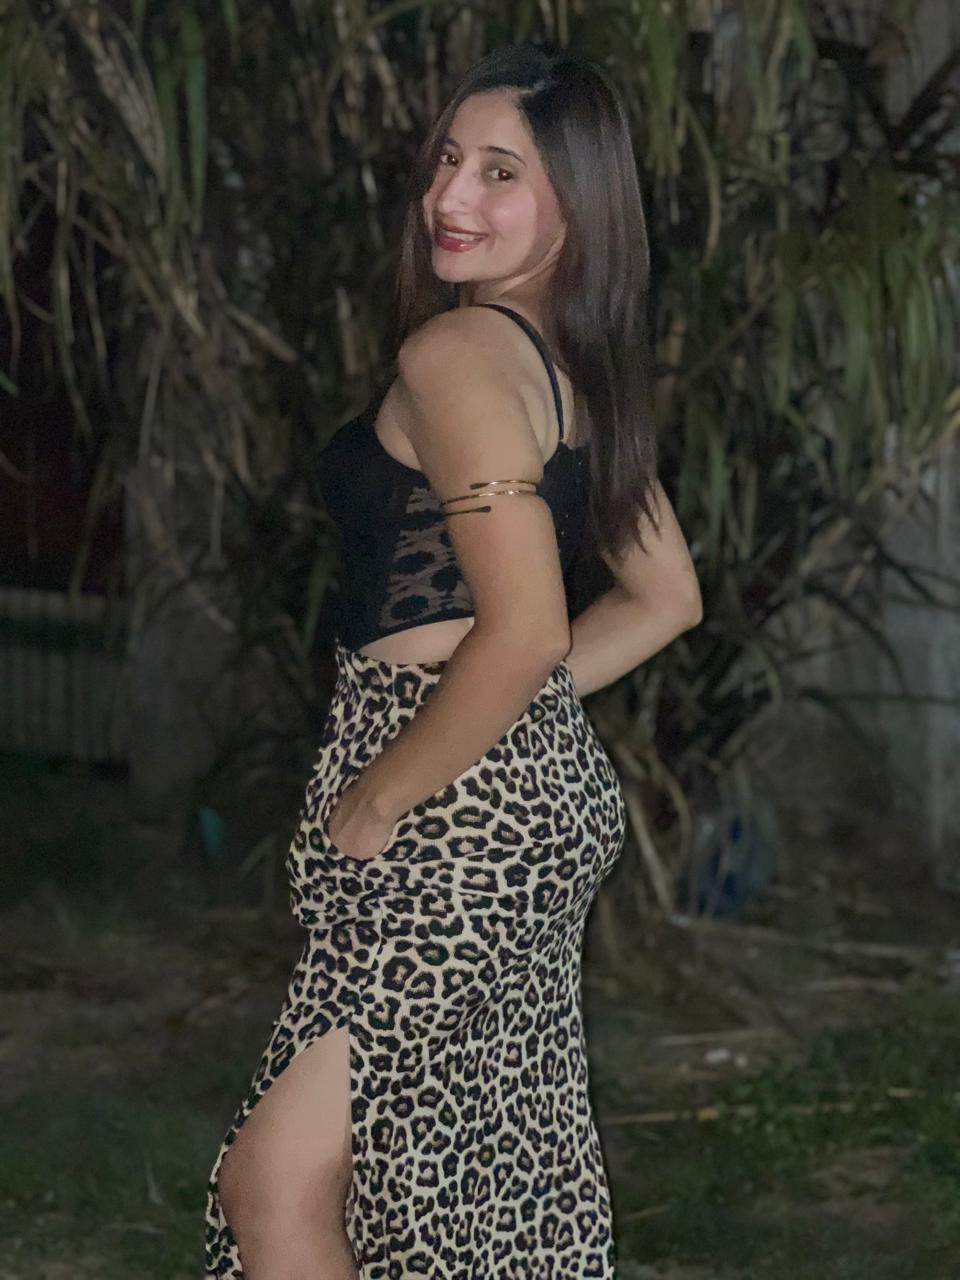
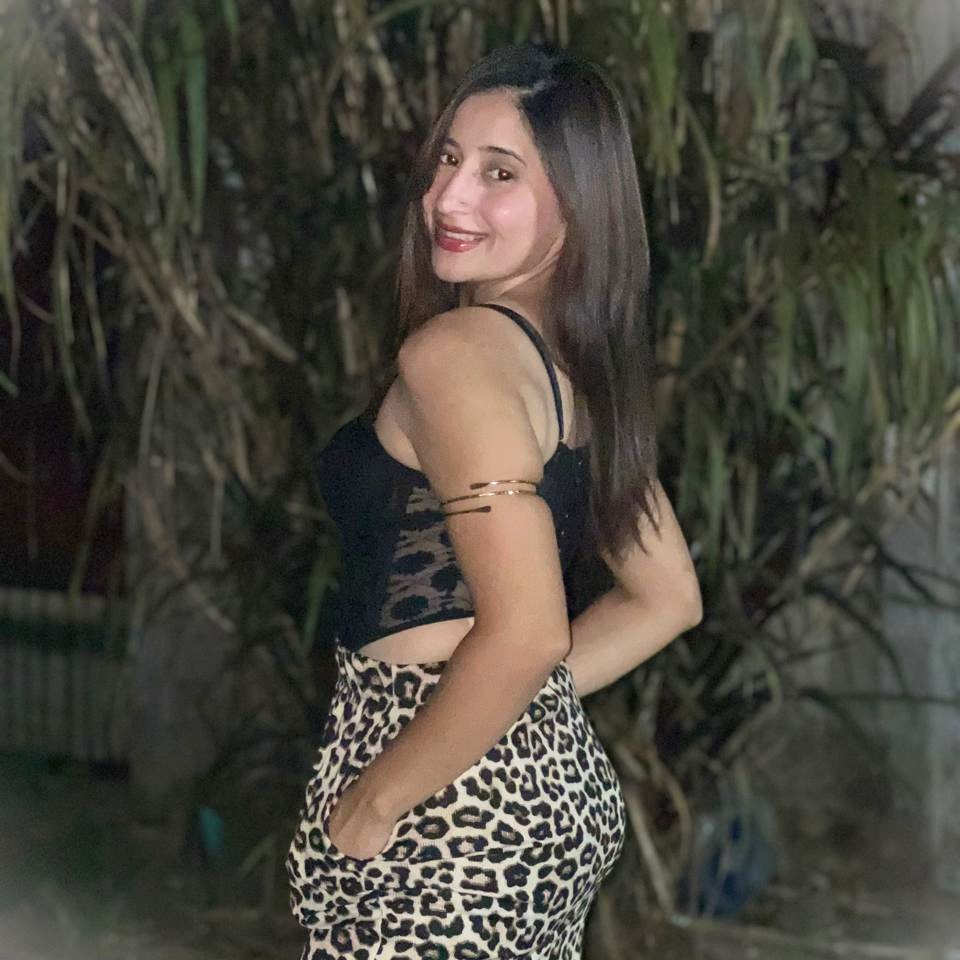
fix padrinos

diff --git a/src/components/Details.tsx b/src/components/Details.tsx
@@ -6,25 +6,25 @@ import { useInView } from '@/hooks/useInView';
 export default function Details() {
   const { ref, inView } = useInView<HTMLDivElement>();
   const [activePanel, setActivePanel] = useState<'location' | 'dressCode' | null>(null);
-  const [godparentsIndex, setGodparentsIndex] = useState(0);
-  const [witnessesIndex, setWitnessesIndex] = useState(0);
+  const [madrinasIndex, setMadrinasIndex] = useState(0);
+  const [padrinosIndex, setPadrinosIndex] = useState(0);
   const [songName, setSongName] = useState('');
   const [submittedSong, setSubmittedSong] = useState('');
 
-  const nextGodparent = () => {
-    setGodparentsIndex((current) => (current + 1) % weddingConfig.godparents.length);
+  const nextMadrina = () => {
+    setMadrinasIndex((current) => (current + 1) % weddingConfig.madrinas.length);
   };
 
-  const prevGodparent = () => {
-    setGodparentsIndex((current) => (current - 1 + weddingConfig.godparents.length) % weddingConfig.godparents.length);
+  const prevMadrina = () => {
+    setMadrinasIndex((current) => (current - 1 + weddingConfig.madrinas.length) % weddingConfig.madrinas.length);
   };
 
-  const nextWitness = () => {
-    setWitnessesIndex((current) => (current + 1) % weddingConfig.witnesses.length);
+  const nextPadrino = () => {
+    setPadrinosIndex((current) => (current + 1) % weddingConfig.padrinos.length);
   };
 
-  const prevWitness = () => {
-    setWitnessesIndex((current) => (current - 1 + weddingConfig.witnesses.length) % weddingConfig.witnesses.length);
+  const prevPadrino = () => {
+    setPadrinosIndex((current) => (current - 1 + weddingConfig.padrinos.length) % weddingConfig.padrinos.length);
   };
 
   const handleSongSubmit = (event: React.FormEvent<HTMLFormElement>) => {
@@ -211,26 +211,26 @@ export default function Details() {
               <div className="mb-6 flex items-center justify-center gap-3 text-center">
                 <Users className="h-5 w-5 text-[#b08968]" />
                 <h3 className="font-[\'Cormorant_Garamond\'] text-2xl text-[#3a3022]">
-                  Padrinos y Madrinas
+                  Madrinas
                 </h3>
               </div>
 
               <div className="flex items-center justify-center gap-3">
                 <button
                   type="button"
-                  aria-label="Anterior padrino o madrina"
-                  onClick={prevGodparent}
+                  aria-label="Anterior madrina"
+                  onClick={prevMadrina}
                   className="flex h-10 w-10 items-center justify-center rounded-full border border-[#d4b483] bg-white text-[#3a3022] shadow-sm transition hover:bg-[#f5ede0]"
                 >
                   <ChevronLeft className="h-5 w-5" />
                 </button>
 
                 <div className="relative flex h-[220px] w-[220px] items-center justify-center overflow-hidden">
-                  {weddingConfig.godparents.map((person, index) => {
-                    const isActive = index === godparentsIndex;
+                  {weddingConfig.madrinas.map((person, index) => {
+                    const isActive = index === madrinasIndex;
                     return (
                       <div
-                        key={`${person.role}-${person.name}`}
+                        key={person.name}
                         className={`absolute inset-0 flex flex-col items-center justify-center rounded-[2rem] border border-[#e6d5b8] bg-white/80 p-4 shadow-[0_24px_50px_rgba(58,48,34,0.08)] backdrop-blur-sm transition-all duration-700 ease-[cubic-bezier(0.22,1,0.36,1)] ${
                           isActive
                             ? 'translate-x-0 scale-100 opacity-100 blur-0'
@@ -244,7 +244,7 @@ export default function Details() {
                             className="h-full w-full object-cover"
                           />
                         </div>
-                        <p className="text-[10px] uppercase tracking-[0.25em] text-[#b08968]">{person.role}</p>
+                        <p className="text-[10px] uppercase tracking-[0.25em] text-[#b08968]">Madrina</p>
                         <p className="mt-2 text-center font-[\'Cormorant_Garamond\'] text-xl text-[#3a3022]">
                           {person.name}
                         </p>
@@ -255,8 +255,8 @@ export default function Details() {
 
                 <button
                   type="button"
-                  aria-label="Siguiente padrino o madrina"
-                  onClick={nextGodparent}
+                  aria-label="Siguiente madrina"
+                  onClick={nextMadrina}
                   className="flex h-10 w-10 items-center justify-center rounded-full border border-[#d4b483] bg-white text-[#3a3022] shadow-sm transition hover:bg-[#f5ede0]"
                 >
                   <ChevronRight className="h-5 w-5" />
@@ -268,26 +268,26 @@ export default function Details() {
               <div className="mb-6 flex items-center justify-center gap-3 text-center">
                 <Users className="h-5 w-5 text-[#b08968]" />
                 <h3 className="font-[\'Cormorant_Garamond\'] text-2xl text-[#3a3022]">
-                  Testigos
+                  Padrinos
                 </h3>
               </div>
 
               <div className="flex items-center justify-center gap-3">
                 <button
                   type="button"
-                  aria-label="Anterior testigo"
-                  onClick={prevWitness}
+                  aria-label="Anterior padrino"
+                  onClick={prevPadrino}
                   className="flex h-10 w-10 items-center justify-center rounded-full border border-[#d4b483] bg-white text-[#3a3022] shadow-sm transition hover:bg-[#f5ede0]"
                 >
                   <ChevronLeft className="h-5 w-5" />
                 </button>
 
                 <div className="relative flex h-[220px] w-[220px] items-center justify-center overflow-hidden">
-                  {weddingConfig.witnesses.map((person, index) => {
-                    const isActive = index === witnessesIndex;
+                  {weddingConfig.padrinos.map((person, index) => {
+                    const isActive = index === padrinosIndex;
                     return (
                       <div
-                        key={`${person.role}-${person.name}`}
+                        key={person.name}
                         className={`absolute inset-0 flex flex-col items-center justify-center rounded-[2rem] border border-[#e6d5b8] bg-white/80 p-4 shadow-[0_24px_50px_rgba(58,48,34,0.08)] backdrop-blur-sm transition-all duration-700 ease-[cubic-bezier(0.22,1,0.36,1)] ${
                           isActive
                             ? 'translate-x-0 scale-100 opacity-100 blur-0'
@@ -301,7 +301,7 @@ export default function Details() {
                             className="h-full w-full object-cover"
                           />
                         </div>
-                        <p className="text-[10px] uppercase tracking-[0.25em] text-[#b08968]">{person.role}</p>
+                        <p className="text-[10px] uppercase tracking-[0.25em] text-[#b08968]">Padrino</p>
                         <p className="mt-2 text-center font-[\'Cormorant_Garamond\'] text-xl text-[#3a3022]">
                           {person.name}
                         </p>
@@ -312,8 +312,8 @@ export default function Details() {
 
                 <button
                   type="button"
-                  aria-label="Siguiente testigo"
-                  onClick={nextWitness}
+                  aria-label="Siguiente padrino"
+                  onClick={nextPadrino}
                   className="flex h-10 w-10 items-center justify-center rounded-full border border-[#d4b483] bg-white text-[#3a3022] shadow-sm transition hover:bg-[#f5ede0]"
                 >
                   <ChevronRight className="h-5 w-5" />

diff --git a/src/lib/config.ts b/src/lib/config.ts
@@ -18,33 +18,45 @@ export const weddingConfig = {
       image: '/WhatsApp Image 2026-10-05 at 19.23.19.jpeg',
     },
   ],
-  godparents: [
+  madrinas: [
     {
-      role: 'Madrina',
       name: 'Hermana de la novia',
       image: '/WhatsApp Image 2026-10-05 at 19.24.55.jpeg',
     },
     {
-      role: 'Padrino',
-      name: 'Cosme fulanito',
-      image: '/WhatsApp Image 2026-10-05 at 19.23.19.jpeg',
-    },
-    {
-      role: 'Madrina',
       name: 'Cuñada de la novia',
       image: '/WhatsApp Image 2026-10-05 at 19.59.11.jpeg',
     },
-  ],
-  witnesses: [
     {
-      role: 'Testigo',
-      name: 'Nombre y apellido',
-      image: '/WhatsApp Image 2026-10-05 at 19.24.55.jpeg',
+      name: 'Amiga de la novia',
+      image: '/WhatsApp Image 2026-10-07 at 11.31.50.jpeg',
     },
     {
-      role: 'Testigo',
-      name: 'Nombre y apellido',
-      image: '/WhatsApp Image 2026-10-05 at 19.23.19.jpeg',
+      name: 'Amiga de la novia',
+      image: '/WhatsApp Image 2026-10-07 at 13.31.34.jpeg',
+    },
+    
+  ],
+  padrinos: [
+    {
+      name: 'Amigo del novio',
+      image: '/WhatsApp Image 2026-10-07 at 11.33.51 (3).jpeg',
+    },
+    {
+      name: 'Amigo del novio',
+      image: '/WhatsApp Image 2026-10-07 at 13.31.25.jpeg',
+    },
+    {
+      name: 'Amigo del novio',
+      image: '/WhatsApp Image 2026-10-07 at 11.33.51 (1).jpeg',
+    },
+    {
+      name: 'Amigo del novio',
+      image: '/WhatsApp Image 2026-10-07 at 11.33.51.jpeg',
+    },
+    {
+      name: 'Amigo del novio',
+      image: '/WhatsApp Image 2026-10-07 at 11.33.51 (2).jpeg',
     },
   ],
   giftAlias: 'bodabelenyfacundo.',
